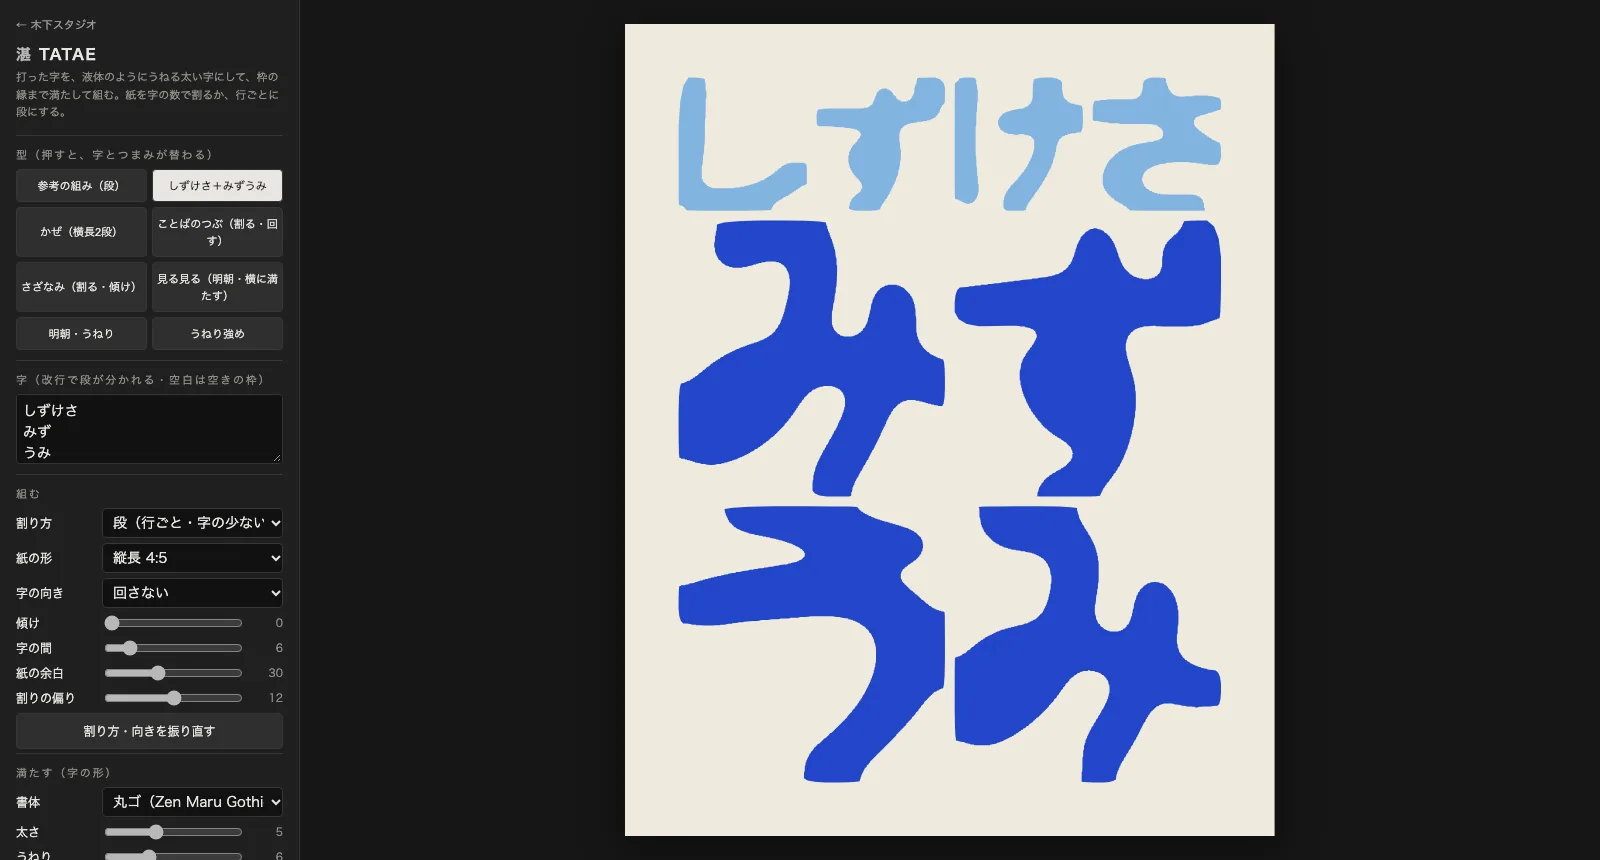
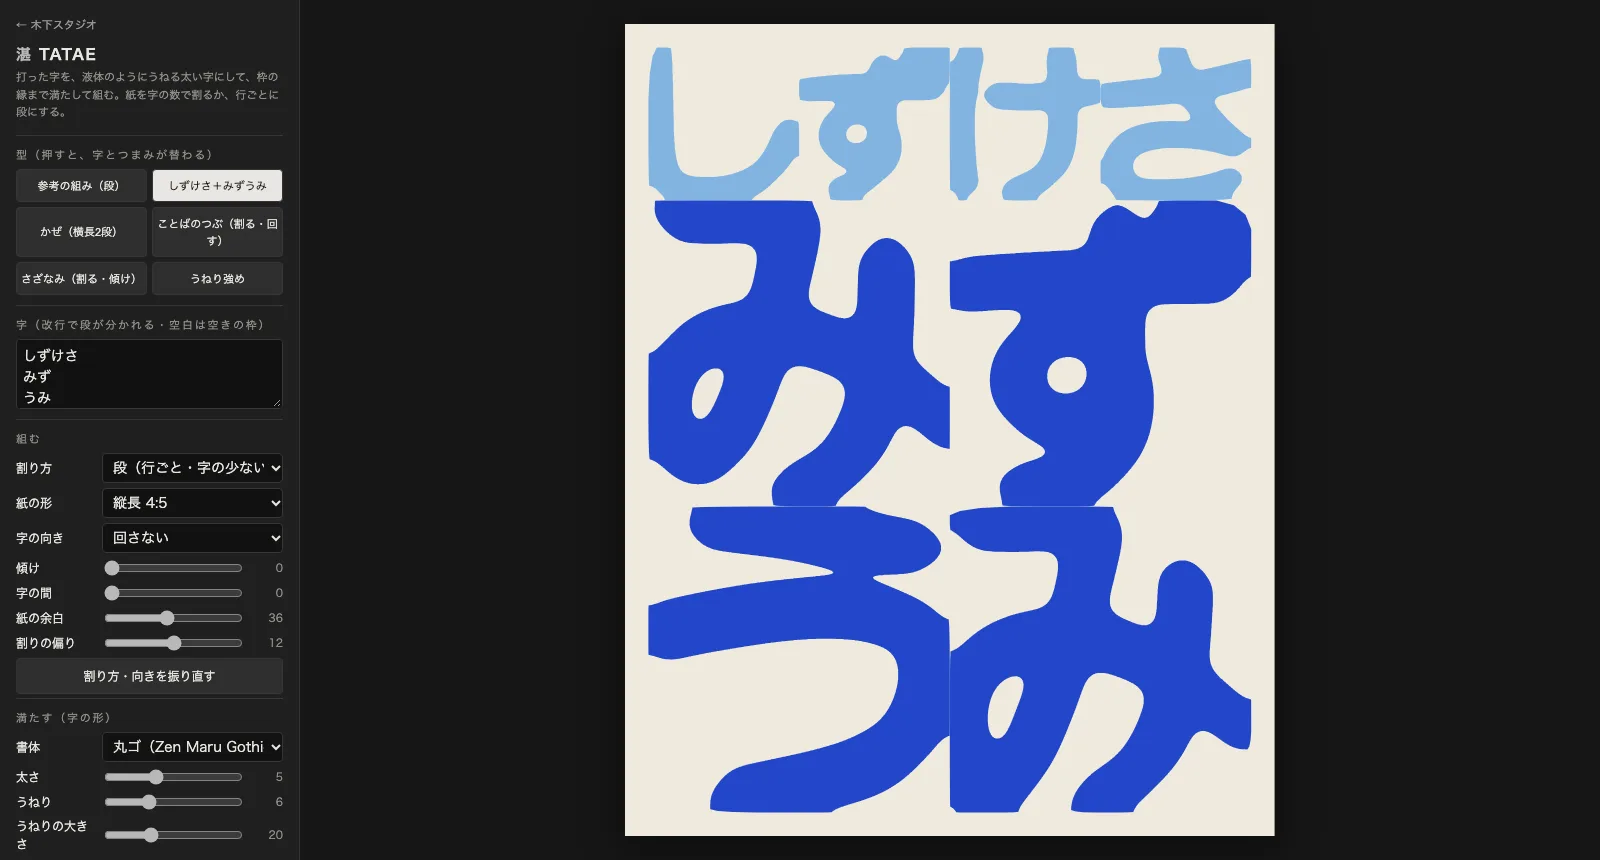
湛 TATAE：Python の試しと同じ計算に揃えた（太らせ＝ひし形・うねり＝ぼかした白色雑音・ヒラギノ丸ゴ・余白と字の間）
Claude-Session: https://claude.ai/code/session_01TDfKT4PukXAdTsPnPzqhA8

Changed region(s): [[0.4062, 0.0302, 0.7812, 0.9674], [0.0, 0.514, 0.1875, 1.0], [0.0, 0.3023, 0.1875, 0.6651]]

diff --git a/tatae/index.html b/tatae/index.html
@@ -67,7 +67,7 @@ canvas{max-width:100%;max-height:calc(100vh - 48px);box-shadow:0 10px 40px rgba(
     <label>紙の形<select id="ratio" style="grid-column:2/4"><option value="4:5">縦長 4:5</option><option value="2:3">縦長 2:3</option><option value="1:1">正方形 1:1</option><option value="3:2">横長 3:2</option><option value="2:1">横長 2:1</option></select></label>
     <label>字の向き<select id="turn" style="grid-column:2/4"><option value="0">回さない</option><option value="1">0° と ±90° をまぜる</option><option value="2">±90° を多めに</option></select></label>
     <label>傾け<input type="range" id="tilt" min="0" max="20" value="0"><span class="v"></span></label>
-    <label>字の間<input type="range" id="gap" min="0" max="40" value="8"><span class="v"></span></label>
+    <label>字の間<input type="range" id="gap" min="0" max="40" value="0"><span class="v"></span></label>
     <label>紙の余白<input type="range" id="margin" min="0" max="80" value="36"><span class="v"></span></label>
     <label>割りの偏り<input type="range" id="bias" min="0" max="24" value="12"><span class="v"></span></label>
     <div class="row" style="margin-top:2px"><button id="reroll">割り方・向きを振り直す</button></div>
@@ -75,7 +75,7 @@ canvas{max-width:100%;max-height:calc(100vh - 48px);box-shadow:0 10px 40px rgba(
   <div class="grp"><div class="t">満たす（字の形）</div>
     <label>書体<select id="font" style="grid-column:2/4"><option value="maru">丸ゴ（Zen Maru Gothic）</option><option value="kaku">角ゴ（Zen Kaku Gothic New）</option></select></label>
     <label>太さ<input type="range" id="fat" min="0" max="14" value="5"><span class="v"></span></label>
-    <label>うねり<input type="range" id="wob" min="0" max="20" value="5"><span class="v"></span></label>
+    <label>うねり<input type="range" id="wob" min="0" max="20" value="6"><span class="v"></span></label>
     <label>うねりの大きさ<input type="range" id="per" min="6" max="50" value="20"><span class="v"></span></label>
     <label>なめらか<input type="range" id="smooth" min="0" max="8" value="3"><span class="v"></span></label>
   </div>
@@ -100,8 +100,8 @@ const $=id=>document.getElementById(id);
 const K=['tilt','gap','margin','bias','fat','wob','per','smooth'];
 const TXT=['txt','mode','ratio','turn','font','c0','c1','c2','c2rule','paper'];
 const RATIO={'4:5':[2000,2500],'2:3':[2000,3000],'1:1':[2400,2400],'3:2':[3000,2000],'2:1':[3200,1600]};
-const FONTS={maru:['"Zen Maru Gothic"',500],kaku:['"Zen Kaku Gothic New"',900]};
-const WR=0.42;                     // 形を作る細かさ（紙の 1px あたり）＝輪郭を作ってから拡大して描く
+const FONTS={maru:['"Hiragino Maru Gothic ProN","Zen Maru Gothic"',500],kaku:['"Zen Kaku Gothic New"',900]};
+const WR=0.5;                      // 形を作る細かさ（紙の 1px あたり）＝輪郭を作ってから拡大して描く
 const cv=$('cv'),ctx=cv.getContext('2d');
 let BW=2000,BH=2500,Q=0.4,SEED=7,EXTRA=[],LAST=[];
 const v=id=>+$(id).value;
@@ -117,13 +117,23 @@ function boxBlur(src,w,h,r){if(r<1)return src;let a=src,b=new Float32Array(w*h);
       for(let y=0;y<h;y++){a===src&&(a=new Float32Array(w*h));a[y*w+x]=acc/(2*r+1);acc+=b[Math.min(h-1,y+r+1)*w+x]-b[Math.max(0,y-r)*w+x]}}}
   return a}
 function sourceMask(src){   // 字（または読んだ SVG の絵）を描いて、外接枠で切り出す
-  const S=360,c=document.createElement('canvas');c.width=c.height=S;const g=c.getContext('2d',{willReadFrequently:true});
+  const S=720,c=document.createElement('canvas');c.width=c.height=S;const g=c.getContext('2d',{willReadFrequently:true});
   g.fillStyle='#000';
-  if(typeof src==='string'){const [fam,w]=FONTS[$('font').value];g.font=`${w} ${S*0.8}px ${fam},"Hiragino Maru Gothic ProN","Hiragino Sans",sans-serif`;g.textAlign='center';g.textBaseline='middle';g.fillText(src,S/2,S/2+S*0.03)}
+  if(typeof src==='string'){const [fam,w]=FONTS[$('font').value];g.font=`${w} ${S*0.8}px ${fam},sans-serif`;g.textAlign='center';g.textBaseline='middle';g.fillText(src,S/2,S/2+S*0.03)}
   else{const im=src.img,w=im.naturalWidth||im.width||S,h=im.naturalHeight||im.height||S,s=S*0.9/Math.max(w,h);g.drawImage(im,(S-w*s)/2,(S-h*s)/2,w*s,h*s)}
   const d=g.getImageData(0,0,S,S).data;let x0=S,y0=S,x1=-1,y1=-1;
-  for(let y=0;y<S;y++)for(let x=0;x<S;x++)if(d[(y*S+x)*4+3]>110){if(x<x0)x0=x;if(x>x1)x1=x;if(y<y0)y0=y;if(y>y1)y1=y}
+  for(let y=0;y<S;y++)for(let x=0;x<S;x++)if(d[(y*S+x)*4+3]>127){if(x<x0)x0=x;if(x>x1)x1=x;if(y<y0)y0=y;if(y>y1)y1=y}
   if(x1<0)return null;return {c,x0,y0,w:x1-x0+1,h:y1-y0+1}}
+// 2026-11-18 木下「道具での出来とあなたが作った画像の出来が違う」→ Python 版（make_ekitai_kana_kairyo.py）と同じ計算に揃えた：
+//   太らせ＝ひし形に1画素ずつ広げる（scipy の binary_dilation と同じ）／うねり＝白色雑音をガウスでぼかした揺れ・最大で割って量をそろえる
+//   なめらか＝2倍に広げてからぼかして 0.5 で切る。つまみの値は Python の数字の100倍（太さ5＝0.05）
+function normals(R,n){const a=new Float32Array(n);for(let i=0;i<n;i+=2){const u=Math.max(1e-12,R()),t=R(),q=Math.sqrt(-2*Math.log(u));a[i]=q*Math.cos(2*Math.PI*t);if(i+1<n)a[i+1]=q*Math.sin(2*Math.PI*t)}return a}
+function dilateL1(on,w,h,r){const d=new Float32Array(w*h);for(let i=0;i<w*h;i++)d[i]=on[i]?0:1e9;
+  for(let y=0;y<h;y++)for(let x=0;x<w;x++){const i=y*w+x;let q=d[i];if(x>0&&d[i-1]+1<q)q=d[i-1]+1;if(y>0&&d[i-w]+1<q)q=d[i-w]+1;d[i]=q}
+  for(let y=h-1;y>=0;y--)for(let x=w-1;x>=0;x--){const i=y*w+x;let q=d[i];if(x<w-1&&d[i+1]+1<q)q=d[i+1]+1;if(y<h-1&&d[i+w]+1<q)q=d[i+w]+1;d[i]=q}
+  const o=new Uint8Array(w*h);for(let i=0;i<w*h;i++)o[i]=d[i]<=r?1:0;return o}
+function bilinear(m,w,h,x,y){x=Math.min(w-1,Math.max(0,x));y=Math.min(h-1,Math.max(0,y));const ix=Math.floor(x),iy=Math.floor(y),tx=x-ix,ty=y-iy,ix1=Math.min(w-1,ix+1),iy1=Math.min(h-1,iy+1);
+  return (m[iy*w+ix]*(1-tx)+m[iy*w+ix1]*tx)*(1-ty)+(m[iy1*w+ix]*(1-tx)+m[iy1*w+ix1]*tx)*ty}
 function shape(src,key,gw,gh,seed){
   // gw,gh＝枠の大きさ（紙の px）。返すのは枠の左上を 0,0 とする輪郭（紙の px）
   const P=[v('fat'),v('wob'),v('per'),v('smooth'),$('font').value].join(','), k=key+'|'+Math.round(gw)+'x'+Math.round(gh)+'|'+P+'|'+seed;
@@ -131,28 +141,24 @@ function shape(src,key,gw,gh,seed){
   const w=Math.max(8,Math.round(gw*WR)),h=Math.max(8,Math.round(gh*WR)),s=Math.min(w,h);
   const sm=sourceMask(src);if(!sm){CACHE.set(k,[]);return []}
   const c=document.createElement('canvas');c.width=w;c.height=h;const g=c.getContext('2d',{willReadFrequently:true});
-  g.drawImage(sm.c,sm.x0,sm.y0,sm.w,sm.h,0,0,w,h);           // 1. 枠の縦横いっぱいに伸ばす
-  const d=g.getImageData(0,0,w,h).data;let m=new Float32Array(w*h);for(let i=0;i<w*h;i++)m[i]=d[i*4+3]/255;
-  // 2. 太らせる（ぼかして低いしきい値）
-  const fr=Math.round(s*v('fat')/100*0.7);
-  if(fr>0){m=boxBlur(m,w,h,fr);for(let i=0;i<w*h;i++)m[i]=m[i]>0.2?1:0}
-  // 3. うねらせる：粗い格子の乱数をなめらかにつないだ揺れで座標をずらす
-  const amp=s*v('wob')/100, cell=Math.max(4,s*v('per')/100*2.2);   // 揺れの波長（Python 版のぼかした乱数と同じくらいの長さ）
-  if(amp>0){const R=mkR(seed*7919+101),gx=Math.ceil(w/cell)+3,gy=Math.ceil(h/cell)+3,DX=new Float32Array(gx*gy),DY=new Float32Array(gx*gy);
-    for(let i=0;i<gx*gy;i++){DX[i]=R()*2-1;DY[i]=R()*2-1}
-    const sstep=t=>t*t*(3-2*t);
-    const at=(A,x,y)=>{const fx=x/cell,fy=y/cell,ix=Math.floor(fx),iy=Math.floor(fy),tx=sstep(fx-ix),ty=sstep(fy-iy),i=iy*gx+ix;
-      return (A[i]*(1-tx)+A[i+1]*tx)*(1-ty)+(A[i+gx]*(1-tx)+A[i+gx+1]*tx)*ty};
-    const o=new Float32Array(w*h);
-    for(let y=0;y<h;y++)for(let x=0;x<w;x++){let sx=x+at(DX,x,y)*amp,sy=y+at(DY,x,y)*amp;sx=Math.min(w-1,Math.max(0,sx));sy=Math.min(h-1,Math.max(0,sy));
-      const ix=Math.floor(sx),iy=Math.floor(sy),tx=sx-ix,ty=sy-iy,ix1=Math.min(w-1,ix+1),iy1=Math.min(h-1,iy+1);
-      o[y*w+x]=(m[iy*w+ix]*(1-tx)+m[iy*w+ix1]*tx)*(1-ty)+(m[iy1*w+ix]*(1-tx)+m[iy1*w+ix1]*tx)*ty}
+  g.imageSmoothingQuality='high';g.drawImage(sm.c,sm.x0,sm.y0,sm.w,sm.h,0,0,w,h);           // 1. 枠の縦横いっぱいに伸ばす
+  const d=g.getImageData(0,0,w,h).data;let on=new Uint8Array(w*h);for(let i=0;i<w*h;i++)on[i]=d[i*4+3]>127?1:0;
+  // 2. 太らせる（ひし形に r 画素）
+  const r=Math.floor(s*v('fat')/100);if(r>0)on=dilateL1(on,w,h,r);
+  let m=new Float32Array(w*h);for(let i=0;i<w*h;i++)m[i]=on[i];
+  // 3. うねらせる（白色雑音をぼかした揺れ・最大で割って量をそろえる）
+  const wob=v('wob')/100;
+  if(wob>0){const R=mkR(seed*7919+101),sg=Math.max(1,Math.round(s*v('per')/100));
+    const DX=boxBlur(normals(R,w*h),w,h,sg),DY=boxBlur(normals(R,w*h),w,h,sg);let mx=1e-9;for(let i=0;i<w*h;i++){const a=Math.abs(DX[i]);if(a>mx)mx=a}
+    const kk=s*wob/mx,o=new Float32Array(w*h);
+    for(let y=0;y<h;y++)for(let x=0;x<w;x++){const i=y*w+x;o[i]=bilinear(m,w,h,x+DX[i]*kk,y+DY[i]*kk)}
     m=o}
-  // 4. なめらかに
-  const sr=Math.round(s*v('smooth')/100*1.4); if(sr>0)m=boxBlur(m,w,h,sr);
+  // 4. なめらかに（2倍に広げてからぼかして 0.5 で切る）
+  const W2=w*2,H2=h*2;let u=new Float32Array(W2*H2);for(let y=0;y<H2;y++)for(let x=0;x<W2;x++)u[y*W2+x]=bilinear(m,w,h,(x+.5)/2-.5,(y+.5)/2-.5);
+  const sr=Math.round(2*s*v('smooth')/100);if(sr>0)u=boxBlur(u,W2,H2,sr);
   // 5. 縁をたどる（外側に1画素の空きを足して、枠の縁でも輪が閉じるように）
-  const N=w+2,M=h+2,on=new Uint8Array(N*M);for(let y=0;y<h;y++)for(let x=0;x<w;x++)if(m[y*w+x]>0.5)on[(y+1)*N+x+1]=1;
-  const loops=trace(on,N,M).map(L=>rounded(simplify(L,0.6))).filter(L=>L.length>=3).map(L=>L.map(([x,y])=>[(x-1)/w*gw,(y-1)/h*gh]));
+  const N=W2+2,M=H2+2,bin=new Uint8Array(N*M);for(let y=0;y<H2;y++)for(let x=0;x<W2;x++)if(u[y*W2+x]>0.5)bin[(y+1)*N+x+1]=1;
+  const loops=trace(bin,N,M).map(L=>rounded(simplify(L,0.7))).filter(L=>L.length>=3).map(L=>L.map(([x,y])=>[(x-1)/W2*gw,(y-1)/H2*gh]));
   CACHE.set(k,loops);if(CACHE.size>600)CACHE.delete(CACHE.keys().next().value);return loops}
 function trace(on,N,M){
   const nxt=new Map(),key=(x,y)=>y*(N+1)+x;
@@ -174,7 +180,7 @@ function rounded(P){   // 角を丸める（Chaikin 2回）＝画素の階段を
 
 // ── 割る
 function cells(){
-  const R=mkR(SEED*104729+7),m=v('margin')/1000*Math.min(BW,BH)*2.5,bias=v('bias')/100;
+  const R=mkR(SEED*104729+7),m=v('margin')/1000*BW,bias=v('bias')/100;
   const lines=$('txt').value.split('\n').map(l=>[...l]).filter(l=>l.length);
   const items=[];lines.forEach(l=>l.forEach(ch=>items.push(ch)));EXTRA.forEach((e,i)=>items.push({img:e.img,id:'svg'+i}));
   let rects=[];
@@ -186,7 +192,7 @@ function cells(){
     while(rects.length<items.length){rects.sort((a,b)=>a[2]*a[3]-b[2]*b[3]);const [x,y,w,h]=rects.pop(),t=0.5+(R()*2-1)*bias;
       if(w>h)rects.push([x,y,w*t,h],[x+w*t,y,w*(1-t),h]);else rects.push([x,y,w,h*t],[x,y+h*t,w,h*(1-t)])}
     rects.sort((a,b)=>Math.round(a[1]/(BH*0.08))-Math.round(b[1]/(BH*0.08))||a[0]-b[0])}
-  const gap=v('gap')/1000*Math.min(BW,BH)*2.5,turn=+$('turn').value,tilt=v('tilt');
+  const gap=v('gap')/1000*BW,turn=+$('turn').value,tilt=v('tilt');
   const areas=rects.map(r=>r[2]*r[3]),mean=areas.reduce((a,b)=>a+b,0)/Math.max(1,areas.length);
   return items.map((it,i)=>{const [x,y,w,h]=rects[i];const w2=Math.max(4,w-gap),h2=Math.max(4,h-gap);
     let rot=0;if(turn){const r=R();rot=turn===2?(r<0.25?0:r<0.62?90:-90):(r<0.5?0:r<0.75?90:-90)}
@@ -211,12 +217,12 @@ $('reroll').onclick=()=>{SEED=(SEED*48271+11)%99991||7;render()};
 
 // ── 型と色
 const PRESETS=[
-  {name:'参考の組み（段）',txt:'あいうえ\n　お\nつぶ',mode:'rows',ratio:'4:5',turn:'0',k:{tilt:0,gap:8,margin:36,bias:12,fat:5,wob:5,per:20,smooth:3},pal:0,seed:7},
-  {name:'しずけさ＋みずうみ',txt:'しずけさ\nみず\nうみ',mode:'rows',ratio:'4:5',turn:'0',k:{tilt:0,gap:6,margin:30,bias:12,fat:5,wob:6,per:20,smooth:3},pal:5,seed:7},
-  {name:'かぜ（横長2段）',txt:'か\nぜ\nそよぐ',mode:'rows',ratio:'4:5',turn:'0',k:{tilt:0,gap:6,margin:30,bias:12,fat:5,wob:6,per:20,smooth:3},pal:6,seed:7},
-  {name:'ことばのつぶ（割る・回す）',txt:'ことばのつぶ',mode:'split',ratio:'4:5',turn:'1',k:{tilt:0,gap:10,margin:28,bias:12,fat:5,wob:6,per:20,smooth:3},pal:2,seed:5},
-  {name:'さざなみ（割る・傾け）',txt:'さざなみのしずけさ',mode:'split',ratio:'4:5',turn:'1',k:{tilt:9,gap:10,margin:28,bias:12,fat:5,wob:6,per:20,smooth:3},pal:1,seed:7},
-  {name:'うねり強め',txt:'ゆらぐ\nみなも',mode:'rows',ratio:'1:1',turn:'0',k:{tilt:0,gap:6,margin:30,bias:12,fat:8,wob:14,per:34,smooth:5},pal:3,seed:9},
+  {name:'参考の組み（段）',txt:'あいうえ\n　お\nつぶ',mode:'rows',ratio:'4:5',turn:'0',k:{tilt:0,gap:0,margin:36,bias:12,fat:5,wob:6,per:20,smooth:3},pal:0,seed:7},
+  {name:'しずけさ＋みずうみ',txt:'しずけさ\nみず\nうみ',mode:'rows',ratio:'4:5',turn:'0',k:{tilt:0,gap:0,margin:36,bias:12,fat:5,wob:6,per:20,smooth:3},pal:5,seed:7},
+  {name:'かぜ（横長2段）',txt:'か\nぜ\nそよぐ',mode:'rows',ratio:'4:5',turn:'0',k:{tilt:0,gap:0,margin:36,bias:12,fat:5,wob:6,per:20,smooth:3},pal:6,seed:7},
+  {name:'ことばのつぶ（割る・回す）',txt:'ことばのつぶ',mode:'split',ratio:'4:5',turn:'1',k:{tilt:0,gap:10,margin:36,bias:12,fat:5,wob:6,per:20,smooth:3},pal:2,seed:5},
+  {name:'さざなみ（割る・傾け）',txt:'さざなみのしずけさ',mode:'split',ratio:'4:5',turn:'1',k:{tilt:9,gap:10,margin:36,bias:12,fat:5,wob:6,per:20,smooth:3},pal:1,seed:7},
+  {name:'うねり強め',txt:'ゆらぐ\nみなも',mode:'rows',ratio:'1:1',turn:'0',k:{tilt:0,gap:0,margin:36,bias:12,fat:7,wob:10,per:30,smooth:4},pal:3,seed:9},
 ];
 const PALS=[['黒・灰',['#000000','#767676','#b6b6b6']],['黒地・生成り',['#1e2022','#8a877f','#e8e4da']],['生成り・墨＋朱',['#e8e4da','#181818','#d63e26']],
   ['紺・水色',['#121c3e','#5068a0','#a8c8e4']],['深緑・薄荷',['#102e24','#5c8054','#aae2c4']],['生成り・青',['#eeeade','#82b4e1','#2246c8']],['黄・黒',['#f4cc28','#e8781e','#101010']],['朱・生成り',['#d63e26','#f0a0a0','#f8eede']]];
